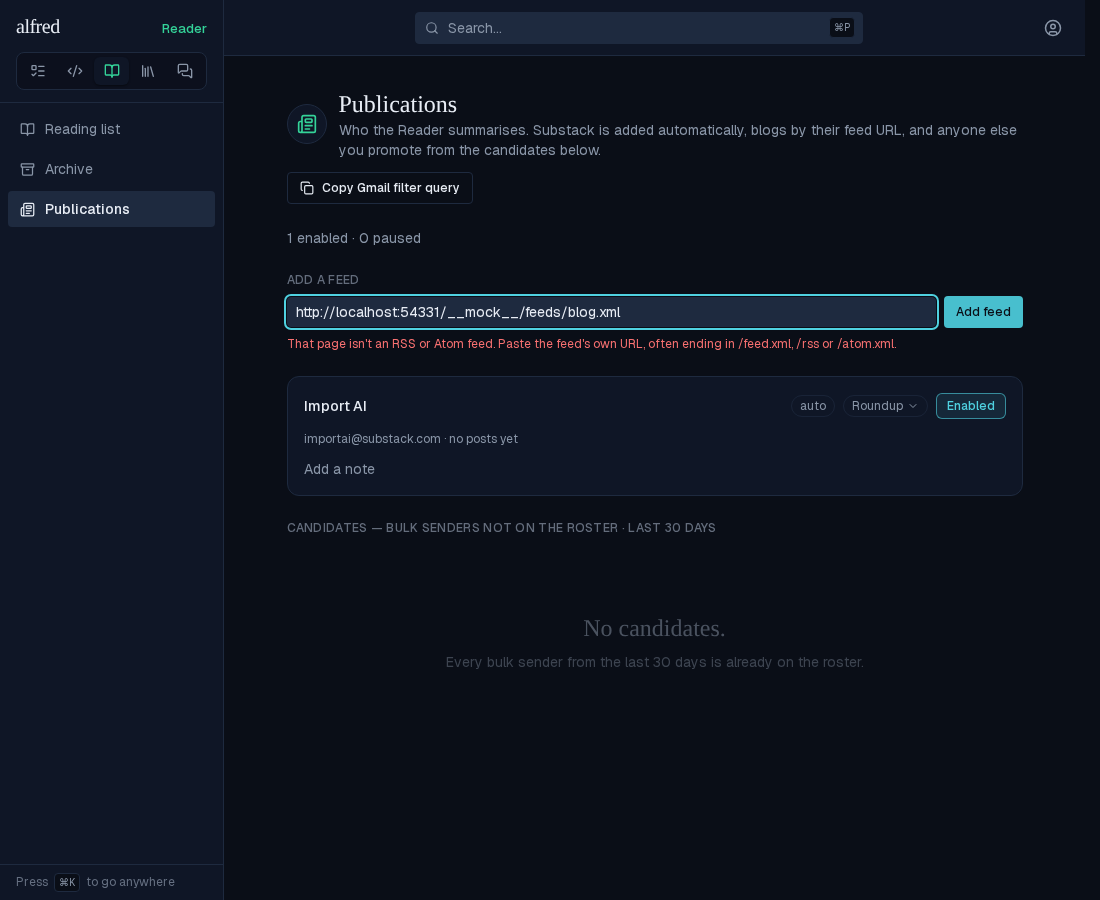
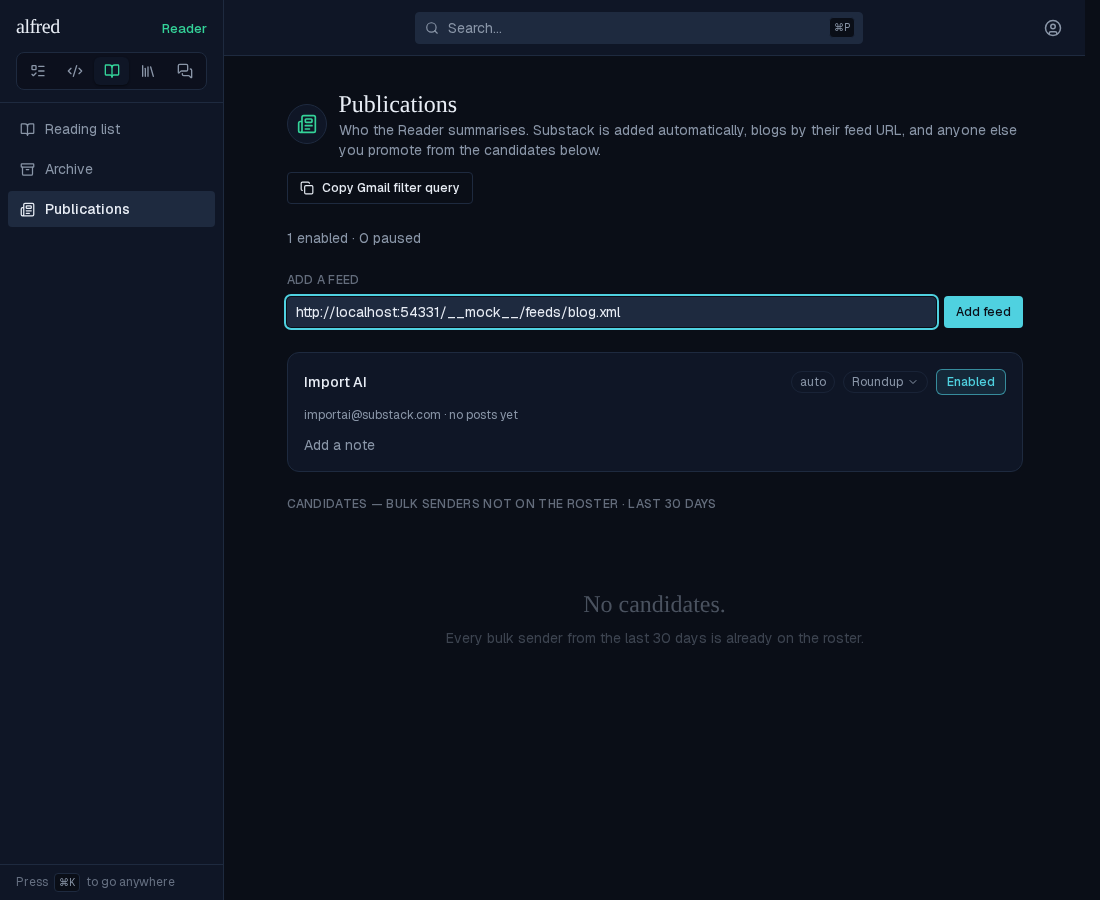
docs(demos): show the reader tick importing feeds and every add-feed refusal

diff --git a/docs/demos/reader-feeds/reader-feeds.md b/docs/demos/reader-feeds/reader-feeds.md
@@ -36,7 +36,7 @@ re-poll with that post stored takes: 0 entries
 
 ![](reader-feeds-image-1.png)
 
-Then the feed's own URL. Before pressing Enter:
+Then the feed's own URL. Editing the field clears the refusal. Before pressing Enter:
 
 ![](reader-feeds-image-2.png)
 
@@ -55,3 +55,70 @@ After Enter, the card appears at its sorted place. It is named from the feed's t
 **Moved Storybook baselines.** The Add-a-feed field sits above the roster on every publications story, and the heading's description changed, so six `Reader/PublicationsView` baselines moved (approved and committed). Below is the `Populated` diff: baseline | changed pixels | new. Four new baselines cover the feed states: `FeedAdded`, `NotAFeed`, `FeedFailing` and `Reader/PostRow` `FeedPost`.
 
 ![](reader-feeds-image-6.png)
+
+The two other refusals: a URL that doesn't answer quotes its status, and a feed already on the roster says so. The duplicate check runs before any fetch, so it holds even while the blog is down.
+
+![](reader-feeds-image-7.png)
+
+![](reader-feeds-image-8.png)
+
+**The Worker importing feeds, tick by tick.** This runs the production `runReaderTick` eight times against stand-ins. PostgREST is an in-memory roster and post table, and the blogs are canned responses: the mlarson.org capture, an excerpt-only feed with its entry page, and a feed that 404s and later recovers. Only the summariser is replaced; its input is printed instead of sent to the model. What it shows:
+- one feed polled per tick, never-checked first;
+- each new entry inserted as `source=feed` with its own date, then summarised with its feed's kind;
+- an excerpt's page read for the article;
+- the drained-poll stamp with its validators;
+- a 404 stamped on the feed and retried hourly, never as a tick failure;
+- an ETag re-poll that re-imports nothing;
+- the recovery's success stamp, newer than the error, which clears the card's amber line.
+
+```bash
+node docs/demos/reader-feeds/tick-harness.mjs
+```
+
+```output
+
+2026-11-09T12:00:00.000Z — three never-checked feeds: ONE is polled a tick, the lowest id first — it 404s
+    GET https://dead.example/rss
+    stamp Dead Blog: {"feed_checked_at":"2026-11-09T12:00:00.000Z","feed_last_error":"it answered 404","feed_last_error_at":"2026-11-09T12:00:00.000Z"}
+    → feed: {"feedId":"pub-dead","status":"failed","taken":0,"failures":["it answered 404"]}; tick failures: []
+
+2026-11-09T12:05:00.000Z — the next never-checked feed: mlarson.org's one entry inside seven days is imported
+    GET https://mlarson.org/feed.xml
+    insert reader_posts: source=feed feed=pub-mlarson entry=https://mlarson.org/2026/11/08/2026-week-45/ received_at=2026-11-08T08:11:17.000Z words=403
+    summarise: kind=essay publication="mlarson.org" title="2026, Week 45" words=403
+    stamp mlarson.org: {"feed_checked_at":"2026-11-09T12:05:00.000Z","feed_last_success_at":"2026-11-09T12:05:00.000Z","feed_etag":"\"m1\"","feed_last_modified":null}
+    → feed: {"feedId":"pub-mlarson","status":"polled","taken":1,"failures":[]}; tick failures: []
+
+2026-11-09T12:10:00.000Z — the excerpt-only feed: its entry page is read and its article stored
+    GET https://quiet.example/feed.xml
+    GET https://quiet.example/posts/cities
+    insert reader_posts: source=feed feed=pub-quiet entry=https://quiet.example/posts/cities received_at=2026-11-08T07:00:00.000Z words=300
+    summarise: kind=roundup publication="Quiet Cities" title="Cities are getting quieter" words=300
+    stamp Quiet Cities: {"feed_checked_at":"2026-11-09T12:10:00.000Z","feed_last_success_at":"2026-11-09T12:10:00.000Z","feed_etag":null,"feed_last_modified":"Sun, 08 Nov 2026 07:00:00 GMT"}
+    → feed: {"feedId":"pub-quiet","status":"polled","taken":1,"failures":[]}; tick failures: []
+
+2026-11-09T12:15:00.000Z — every feed was checked within the hour: nothing is due
+    → feed: {"skipped":"none due"}; tick failures: []
+
+2026-11-09T13:15:00.000Z — an hour on: the dead blog is retried (hourly, not every tick) and still 404s
+    GET https://dead.example/rss
+    stamp Dead Blog: {"feed_checked_at":"2026-11-09T13:15:00.000Z","feed_last_error":"it answered 404","feed_last_error_at":"2026-11-09T13:15:00.000Z"}
+    → feed: {"feedId":"pub-dead","status":"failed","taken":0,"failures":["it answered 404"]}; tick failures: []
+
+2026-11-09T13:20:00.000Z — mlarson.org re-polled with its ETag: its entry is already a post, so nothing is taken
+    GET https://mlarson.org/feed.xml (If-None-Match "m1")
+    stamp mlarson.org: {"feed_checked_at":"2026-11-09T13:20:00.000Z","feed_last_success_at":"2026-11-09T13:20:00.000Z","feed_etag":"\"m1\"","feed_last_modified":null}
+    → feed: {"feedId":"pub-mlarson","status":"polled","taken":0,"failures":[]}; tick failures: []
+
+2026-11-09T13:25:00.000Z — Quiet Cities re-polled: nothing new
+    GET https://quiet.example/feed.xml
+    stamp Quiet Cities: {"feed_checked_at":"2026-11-09T13:25:00.000Z","feed_last_success_at":"2026-11-09T13:25:00.000Z","feed_etag":null,"feed_last_modified":"Sun, 08 Nov 2026 07:00:00 GMT"}
+    → feed: {"feedId":"pub-quiet","status":"polled","taken":0,"failures":[]}; tick failures: []
+
+2026-11-09T14:15:00.000Z — the dead blog answers again: a success stamped after its error, so its card's amber line clears
+    GET https://dead.example/rss
+    stamp Dead Blog: {"feed_checked_at":"2026-11-09T14:15:00.000Z","feed_last_success_at":"2026-11-09T14:15:00.000Z","feed_etag":null,"feed_last_modified":null}
+    → feed: {"feedId":"pub-dead","status":"polled","taken":0,"failures":[]}; tick failures: []
+
+posts stored: 2
+```
